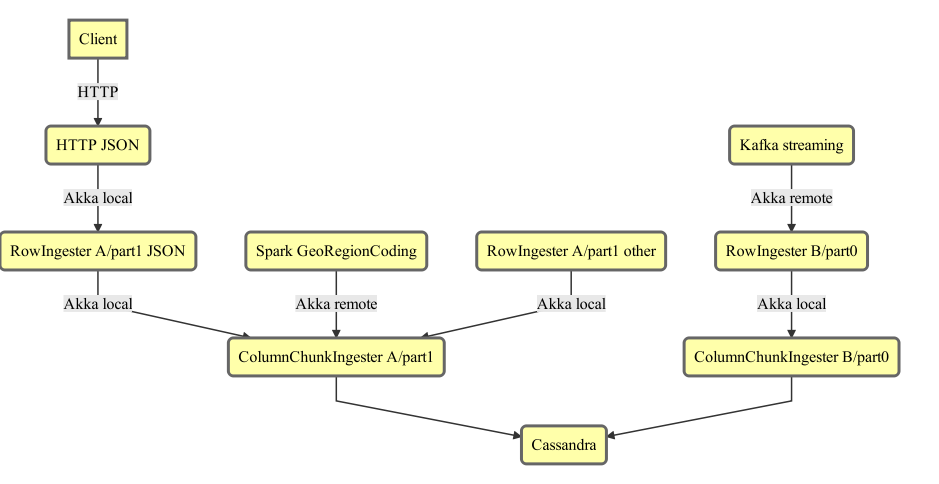
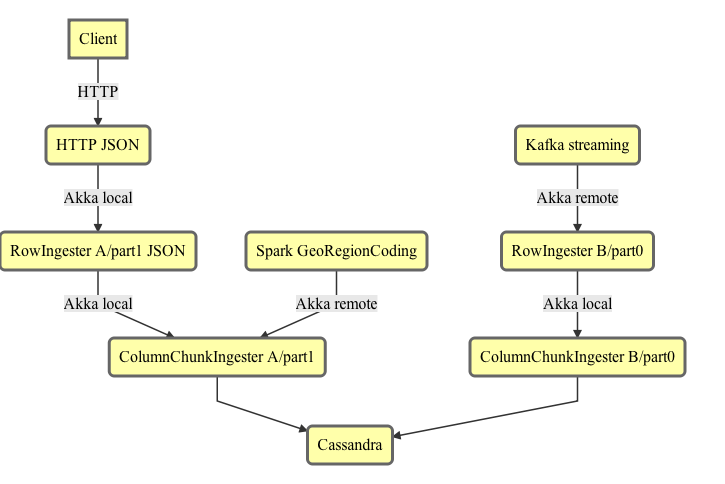
Update ingestion diagram a little bit

diff --git a/doc/ingestion.md b/doc/ingestion.md
@@ -53,7 +53,9 @@ Each request would include the following:
 
 Deletes should not be mixed with appends and replaces, and should go in a separate version, otherwise it would be difficult or impossible to reach the current state of a version without replaying every sequence.
 
-Sequence numbers would be generated for every incoming row starting at 0 for the first row received.  Perhaps one option (for implementing regular HTTP streaming ingestion) is to let the user specify the sequence number or a starting sequence number.
+Sequence numbers would be generated for every incoming row starting at 0 for the first row received.  Perhaps one option (for chunking long ingresses into multiple HTTP POSTs) is to let the user specify the sequence number or a starting sequence number.
+
+Concurrent HTTP POSTs to the same dataset and partition are not allowed.
 
 Responses:
 - 200, if every sequence number/row was acked
@@ -161,10 +163,12 @@ downstream writer, the client also has throttling, preventing flooding.
 
 ![](ingestion-architecture.mermaid.png)
 
+Note that there is only essentially one ingestion pipeline per dataset and partition, with the exception of computed columns and materialized view generation.
+
 **RowIngester** - ingest individual rows with a sequence # and Row ID.  A RowIngester groups the rows into chunks aligned with the chunksize and translates into columnar format.
 - Translates rows into columnar chunks
 - Does schema validation
-- One `RowIngester` per (dataset, partition, schema, rowType)
+- One `RowIngester` per (dataset, partition) at a time
 - Handles replaces and deletes by translating into columnChunk operations (stateful)
 - May verify that deletes don't happen mixed with appends in same version
 - May need to cache ingested rows for efficient writes (eg chunk is partially complete, store previous rows so they can be picked up in memory)
